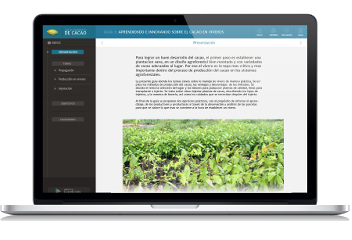
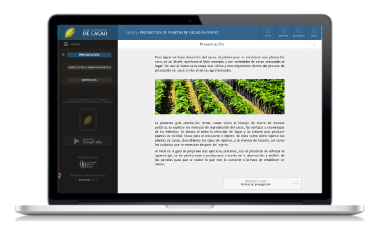
agregando textos de how it works

diff --git a/cacao_app/templates/how_works.html b/cacao_app/templates/how_works.html
@@ -31,17 +31,19 @@
                             <!--/ Header -->
                             <!-- Content -->
                             <!-- Iframe container -->
+                            <!-- 
                             <div class="iframe-container">
                                 <iframe width="100%" src="//www.youtube.com/embed/TN8cWYsvuBE" frameborder="0" allowfullscreen></iframe>
                             </div>
                             <hr>
+                            -->
                             <div class="text-justify">
-                                Lorem ipsum dolor sit amet, consectetur adipisicing elit, sed do eiusmod
-                                tempor incididunt ut labore et dolore magna aliqua. Ut enim ad minim veniam,
-                                quis nostrud exercitation ullamco laboris nisi ut aliquip ex ea commodo
-                                consequat. Duis aute irure dolor in reprehenderit in voluptate velit esse
-                                cillum dolore eu fugiat nulla pariatur. Excepteur sint occaecat cupidatat non
-                                proident, sunt in culpa qui officia deserunt mollit anim id est laborum.
+                                <p>
+                                La Caja de Herramientas de Cacao: Aprendiendo e Innovando sobre el manejo sostenible del cultivo de cacao en sistemas agroforestales se compone de 10 guías prácticas con información sobre el cultivo de cacao para productores de cacao y sus cooperativas en la región de América Latina.  
+                                </p>
+                                <p>
+                                Desde este sitio se puede ver el contenido de estas guías, descargarlas e imprimirlas para acceder a ellas desde cualquier lugar.  Los conocimientos de estas guías han sido proporcionados por productores y productoras de cacao, así como organizaciones de productores, centros de investigación y agencias de desarrollo.
+                                </p>
                             </div>
                             <!--/ Iframe container -->
                             <!--/ Content -->
@@ -58,18 +60,14 @@
                             <div class="row">
                                 <div class="col-md-4">
                                     <h4>Menu</h4>
-                                    <p>commodo consequat. Duis aute irure dolor in reprehenderit in voluptate velit esse
-                                    cillum dolore eu fugiat nulla pariatur. Excepteur sint occaecat cupidatat non
-                                    proident, sunt in culpa qui officia deserunt mollit anim id est laborum.</p>
+                                    <p>En la parte izquierda se cuenta con un menú navegable donde se puede acceder al Directorio de Guías, Contacto e información Acerca de la aplicación.  Dentro de cada guía, en la parte izquierda, se cuenta con un menú desplegable que muestra el contenido de la guía y permite navegar en ella.</p>
                                 </div>
                                 <div class="col-md-4">
                                     <img src="{% static 'image/how-it-works/3ra-Guia-Laptop.png' %}" class="img-responsive" alt="Responsive image Laptop">
                                 </div>
                                 <div class="col-md-4">
                                     <h4>Acciones</h4>
-                                    <p>Lorem ipsum dolor sit amet, consectetur adipisicing elit, sed do eiusmod
-                                    tempor incididunt ut labore et dolore magna aliqua. Ut enim ad minim veniam,
-                                    quis nostrud exercitation ullamco laboris nisi ut aliquip ex ea.</p>
+                                    <p>Dentro de cada guía, en la parte superior derecha, se cuenta con las siguientes acciones: Inicio para volver al Directorio de Guías, Imprimir para acceder a una versión imprimible de la guía , Descargar para descargar la guía en formato HTML que permitirá acceder a ella sin conexión a internet, y Guías que desplega un menú navegable para ver el resto de guías disponibles en el sitio.</p>
                                 </div>
                             </div>
                         </div>
@@ -84,36 +82,14 @@
                             <div class="row">
                                 <div class="col-md-4">
                                     <h4>Menu</h4>
-                                    <p>commodo consequat. Duis aute irure dolor in reprehenderit in voluptate velit esse
-                                    cillum dolore eu fugiat nulla pariatur. Excepteur sint occaecat cupidatat non
-                                    proident, sunt in culpa qui officia deserunt mollit anim id est laborum.</p>
-                                    <p>Lorem ipsum dolor sit amet, consectetur adipisicing elit, sed do eiusmod
-                                    tempor incididunt ut labore et dolore magna aliqua. Ut enim ad minim veniam,
-                                    quis nostrud exercitation ullamco laboris nisi ut aliquip ex.</p>
+                                    <p>En el menú principal se puede acceder a la Lista de guías y a información Acerca de la aplicación. Dentro de cada guía, en la parte izquierda, se cuenta con un menú desplegable que muestra el contenido de la guía y permite navegar en ella. </p>
                                 </div>
                                 <div class="col-md-4">
                                     <img src="{% static 'image/how-it-works/3ra-Guia-Tablet2.png' %}" class="img-responsive" alt="Responsive image Tablet">
                                 </div>
                                 <div class="col-md-4">
                                     <h4>Acciones</h4>
-                                    <p>Lorem ipsum dolor sit amet, consectetur adipisicing elit, sed do eiusmod
-                                    tempor incididunt ut labore et dolore magna aliqua. Ut enim ad minim veniam,
-                                    quis nostrud exercitation ullamco laboris nisi ut aliquip ex ea.</p>
-                                    <p>Lorem ipsum dolor sit amet, consectetur adipisicing elit, sed do eiusmod
-                                    tempor incididunt ut labore et dolore magna aliqua. Ut enim ad minim veniam,
-                                    quis nostrud exercitation ullamco laboris nisi.</p>
-                                </div>
-                            </div>
-                            <div class="row">
-                                <hr>
-                                <div class="col-sm-4">
-                                    <img src="{% static 'image/how-it-works/step_01.png' %}" class="img-responsive" alt="Responsive image Tablet">
-                                </div>
-                                <div class="col-sm-4">
-                                    <img src="{% static 'image/how-it-works/step_02.png' %}" class="img-responsive" alt="Responsive image Tablet">
-                                </div>
-                                <div class="col-sm-4">
-                                    <img src="{% static 'image/how-it-works/step_03.png' %}" class="img-responsive" alt="Responsive image Tablet">
+                                    <p>Dentro de cada guía, en la parte superior derecha, se cuenta con las siguientes acciones: Inicio para volver al Directorio de Guías, Imprimir para acceder a una versión imprimible de la guía , Descargar para descargar la guía en formato HTML que permitirá acceder a ella sin conexión a internet, y Guías que desplega un menú navegable para ver el resto de guías disponibles en el sitio. </p>
                                 </div>
                             </div>
                         </div>

diff --git a/cacao_app/templates/base.html b/cacao_app/templates/base.html
@@ -105,7 +105,7 @@
                         </a>
                     </li>
                     <li>
-                        <a href="/contact/">
+                        <a href="/contacto/">
                             <span class="figure"><i class="ico-envelope"></i></span>
                             <span class="text">Contáctanos</span>
                         </a>

diff --git a/cacao_app/urls.py b/cacao_app/urls.py
@@ -14,7 +14,7 @@ from cacao.views import render_element
 admin.autodiscover()
 
 urlpatterns = patterns('',
-    url(r'^how-it-works/$',
+    url(r'^como-funciona/$',
         TemplateView.as_view(template_name='how_works.html'),
         name="how_it_works"),
 
